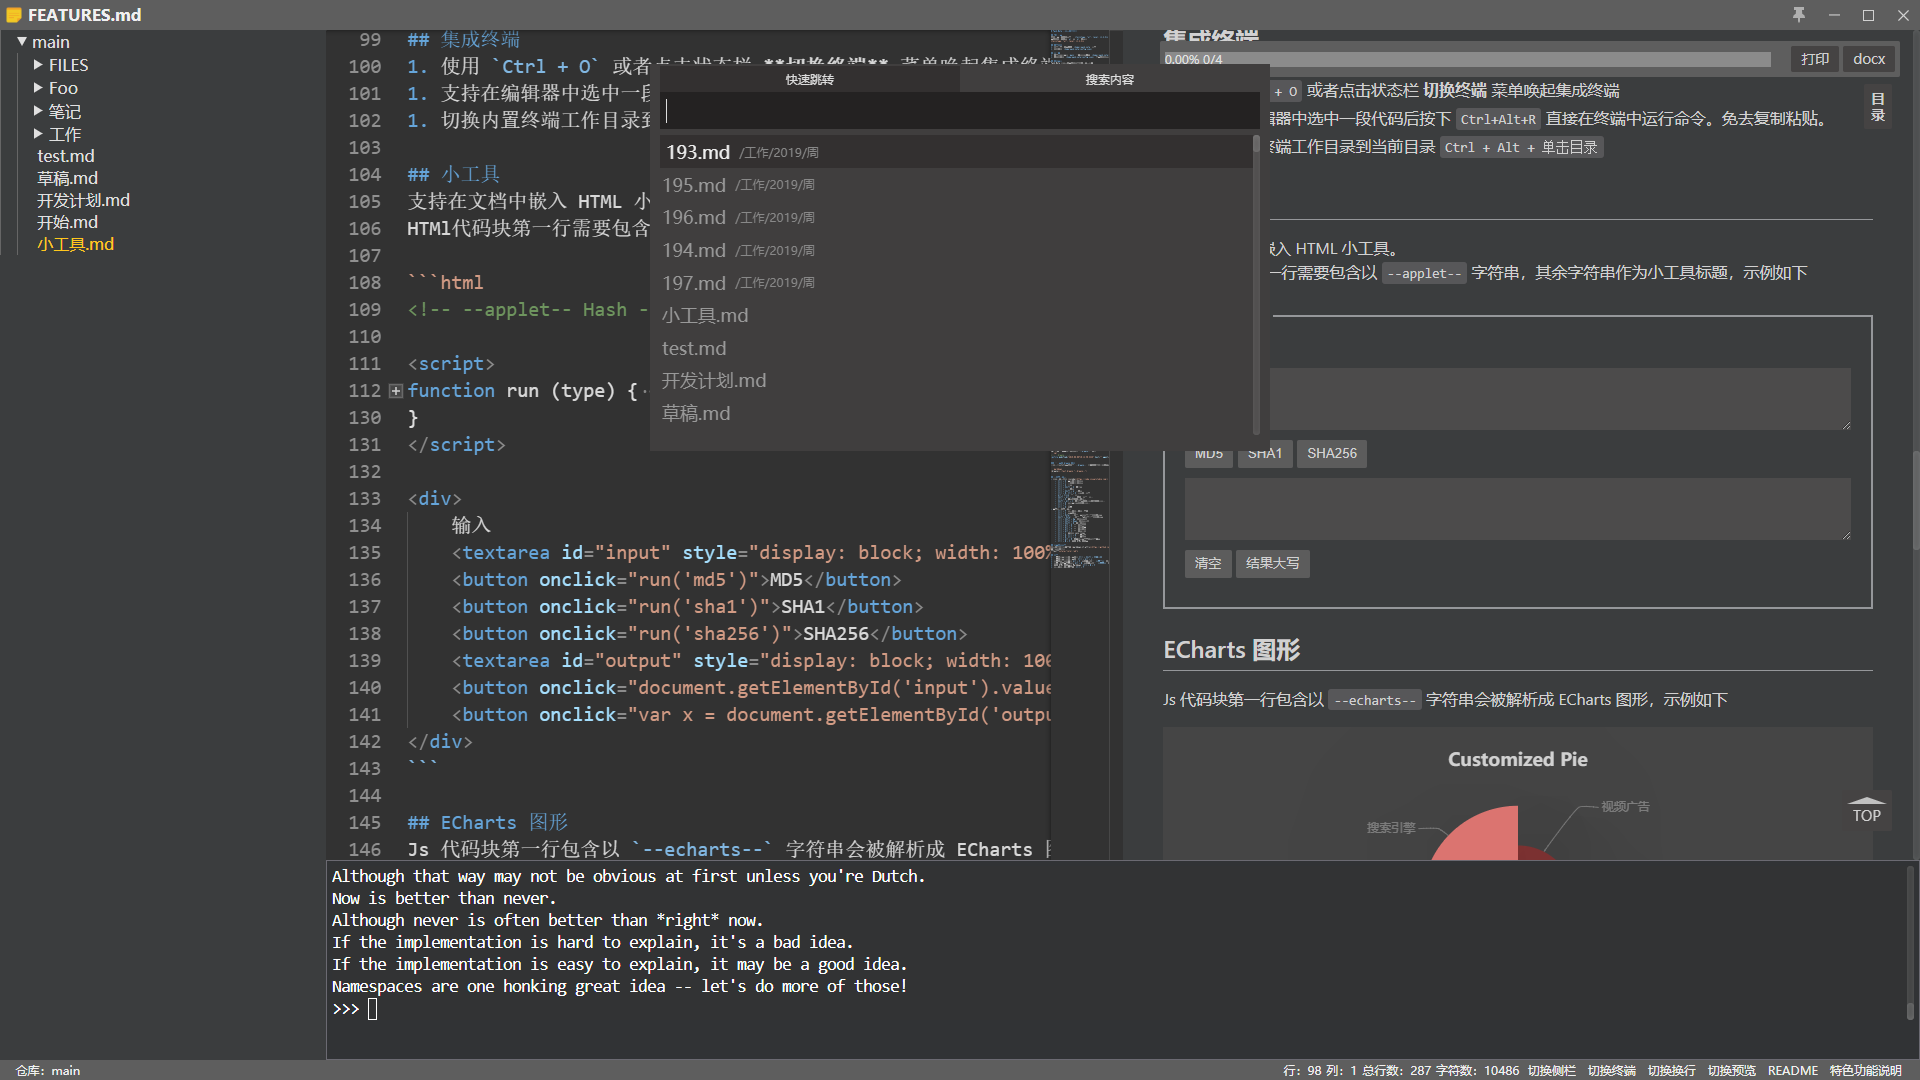
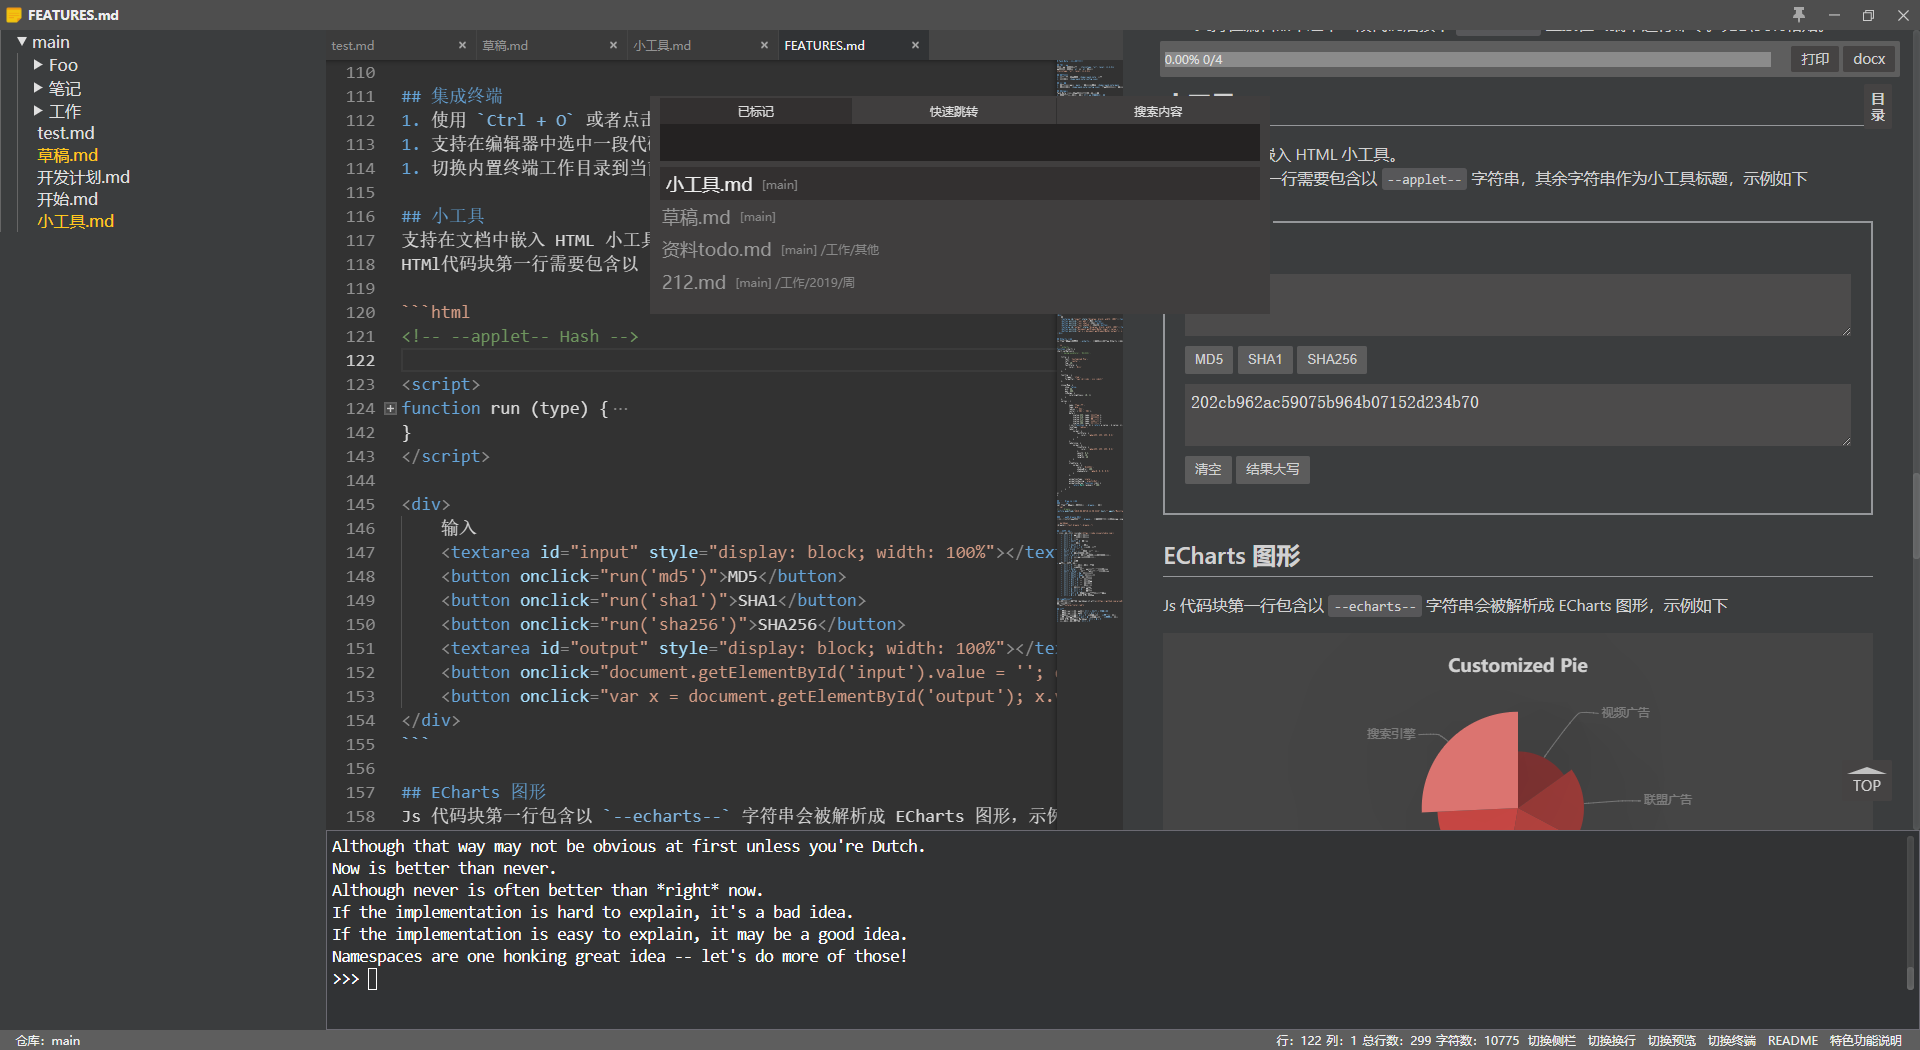
升级版本

diff --git a/README.md b/README.md
@@ -27,7 +27,7 @@
 + [x] 使用 `Electron` 构建为桌面应用。不追求完全做成客户端，还是可以沿用 CS 架构。同样可以在浏览器中使用
 + [x] 支持嵌入 `draw.io` 文档
 + [x] 文件目录增加右键菜单
-+ [ ] 支持打开多个文件
++ [x] 支持多标签打开多个文件
 + [ ] 支持使用快捷键打开常用文档
 + [ ] 全局剪切板功能
 + [ ] 拥有更友好的配置界面
@@ -150,12 +150,15 @@ yarn run start
 
 [Windows 商店下载](https://www.microsoft.com/zh-cn/p/yank-note-%e4%b8%80%e6%ac%be%e9%9d%a2%e5%90%91%e7%a8%8b%e5%ba%8f%e5%91%98%e7%9a%84-markdown-%e7%ac%94%e8%ae%b0%e5%ba%94%e7%94%a8/9n08bq8k8681?rtc=1#activetab=pivot:overviewtab)
 
-### [v2.0.2](https://github.com/purocean/yn/releases/tag/v2.0.2) 2019-11-21
-1. 修复相对链接解析
-1. 图片增加背景色便于透明图片的阅读
+### [v2.1.0](https://github.com/purocean/yn/releases/tag/v2.1.0) 2019-11-21
+1. 增加多标签同时打开多个文件
 
 <details>
 <summary>展开查看更多版本记录</summary>
+
+### [v2.0.2](https://github.com/purocean/yn/releases/tag/v2.0.2) 2019-11-21
+1. 修复相对链接解析
+1. 图片增加背景色便于透明图片的阅读
 
 ### [v2.0.1](https://github.com/purocean/yn/releases/tag/v2.0.1) 2019-11-20
 1. 增加 2.0 计划
